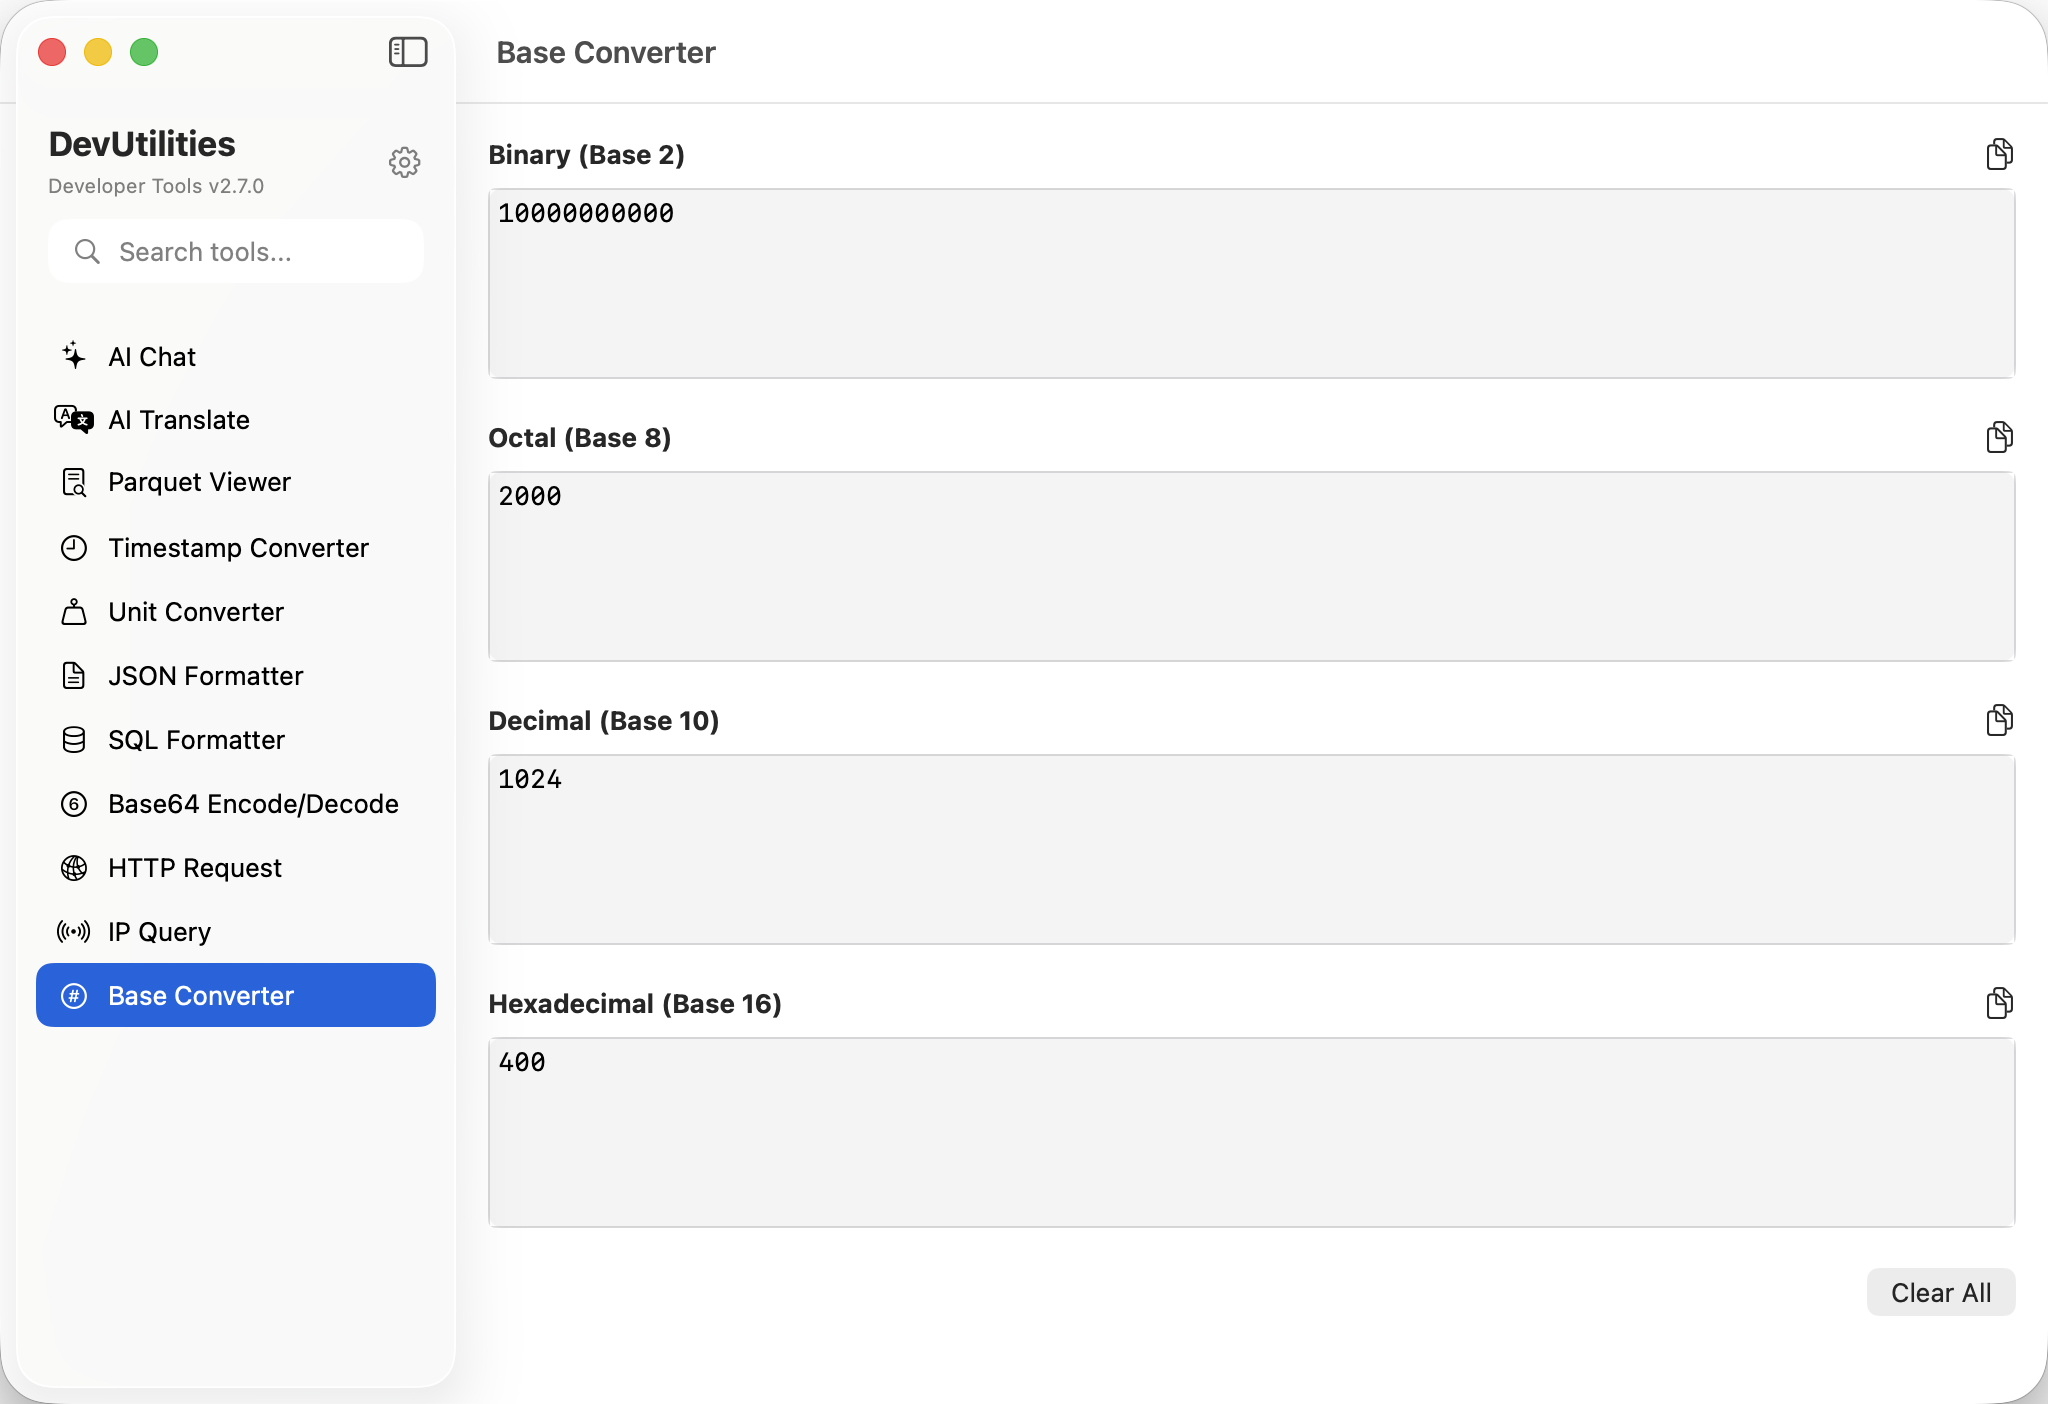
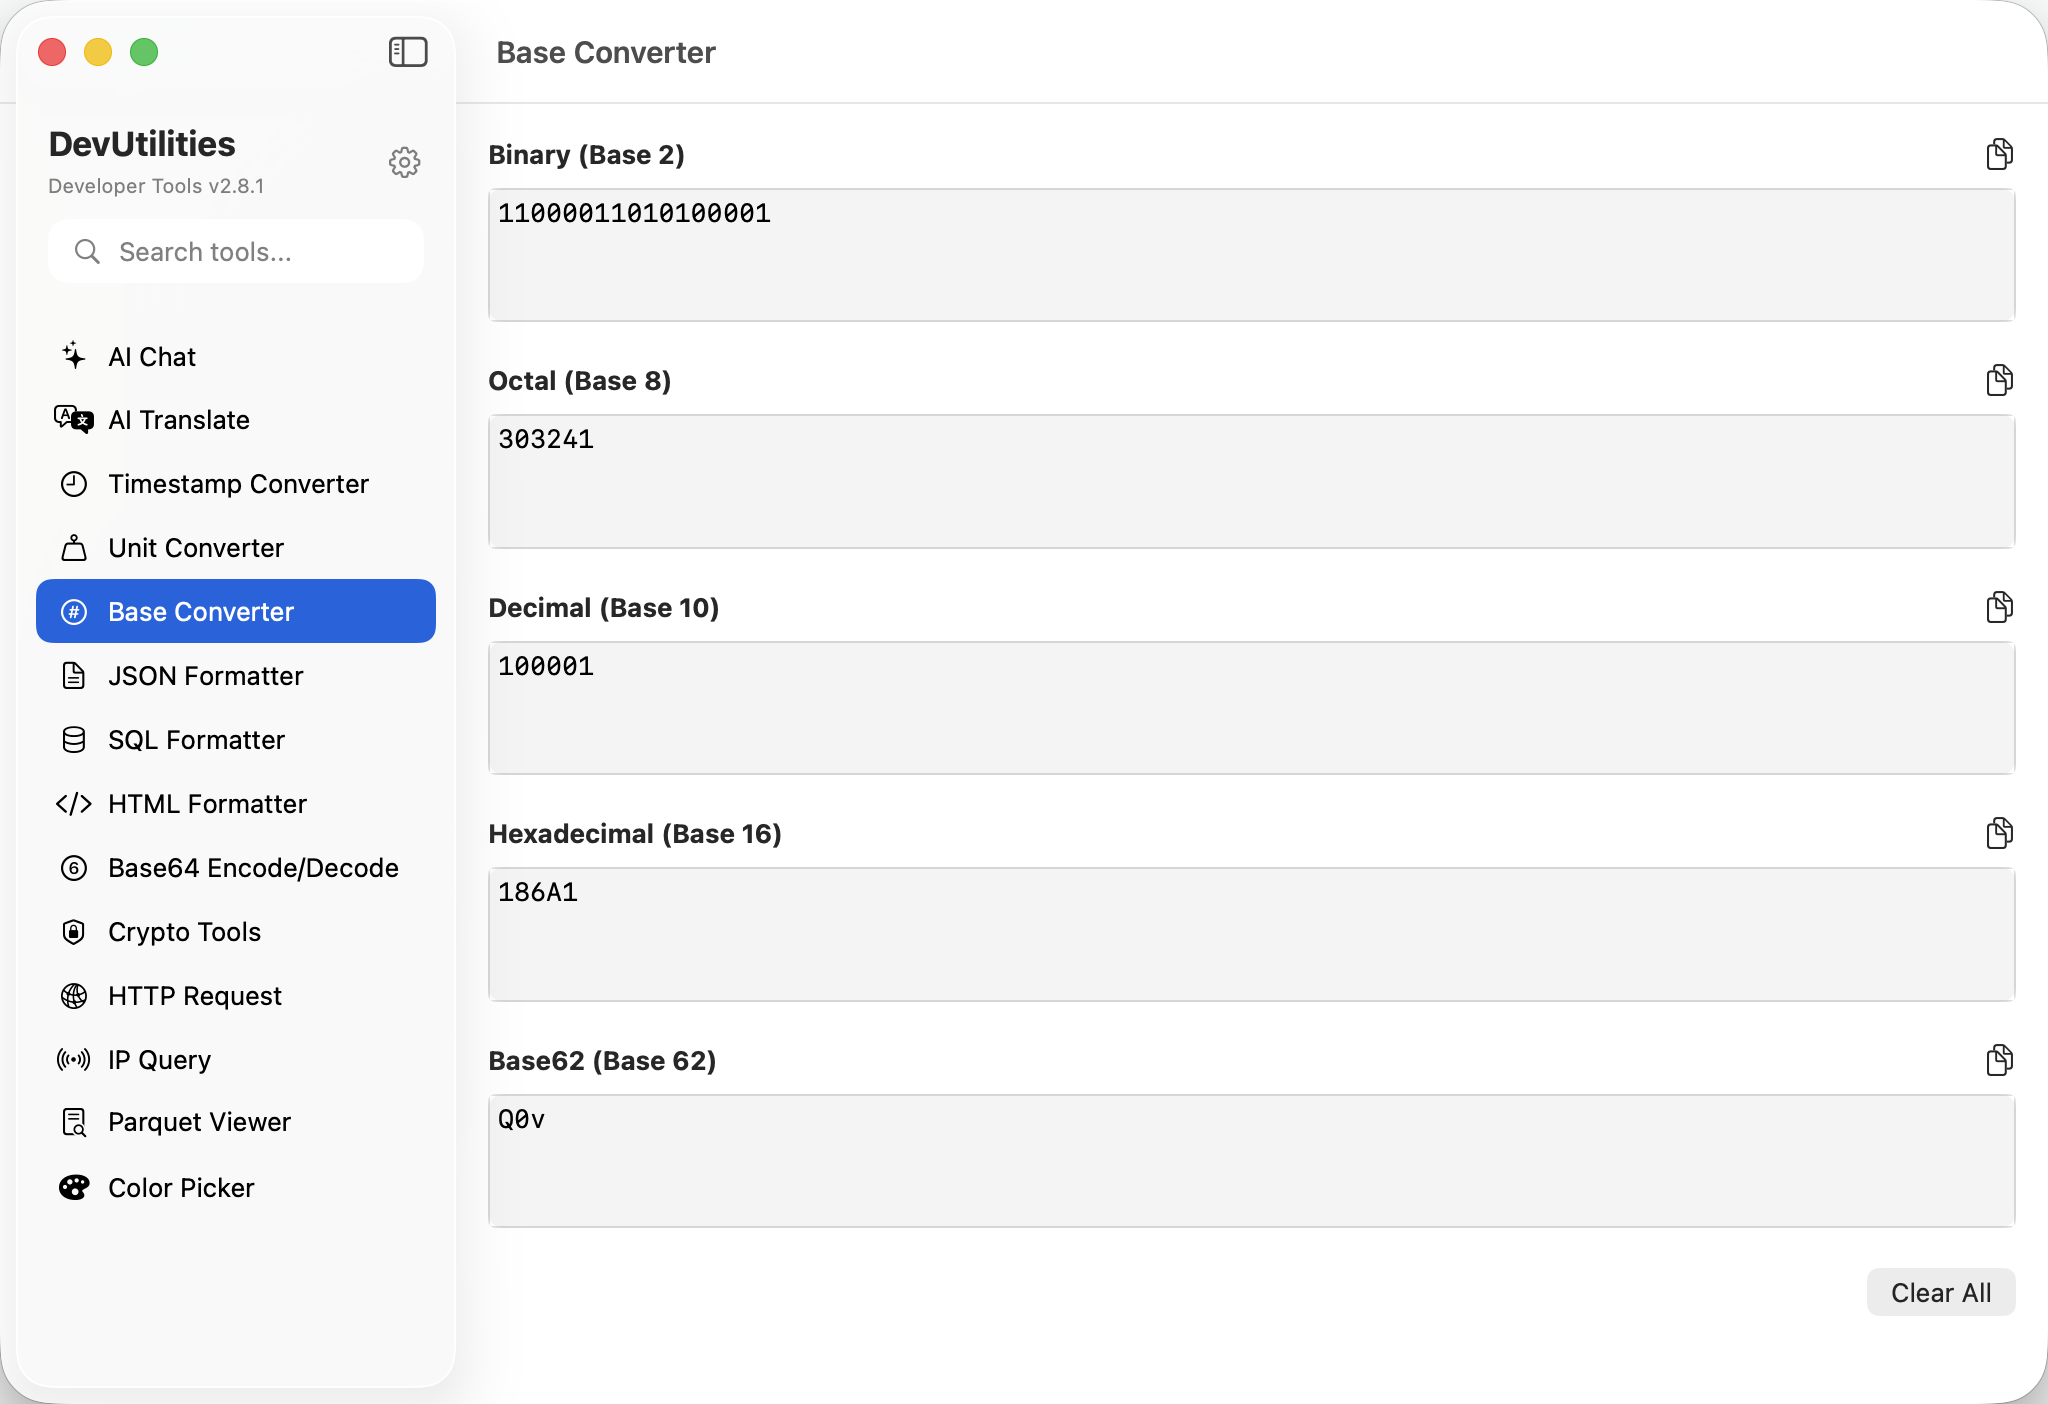
update base converter

diff --git a/release-notes.html b/release-notes.html
@@ -271,6 +271,46 @@
             </div>
 
             <div class="version-list">
+                <!-- Version 2.8.1 -->
+                <article class="version-card">
+                    <div class="version-header">
+                        <div class="version-info">
+                            <h2 class="version-number">v2.8.1</h2>
+                            <span class="version-date">October 2025</span>
+                        </div>
+                        <span class="version-badge patch">Enhancement</span>
+                    </div>
+
+                    <div class="version-content">
+                        <ul class="changes-list">
+                            <li class="change-item">
+                                <span class="change-icon">🔢</span>
+                                <div class="change-text">
+                                    <span class="change-highlight">Base62 Support</span> - Enhanced Base Converter with Base62 number system support (0-9, A-Z, a-z) for URL shortening and compact identifiers
+                                </div>
+                            </li>
+                            <li class="change-item">
+                                <span class="change-icon">⚡</span>
+                                <div class="change-text">
+                                    <span class="change-highlight">Five Base Systems</span> - Now supports conversion between binary, octal, decimal, hexadecimal, and Base62 with real-time validation
+                                </div>
+                            </li>
+                            <li class="change-item">
+                                <span class="change-icon">🔄</span>
+                                <div class="change-text">
+                                    <span class="change-highlight">Real-time Conversion</span> - All five number bases convert simultaneously as you type in any field
+                                </div>
+                            </li>
+                            <li class="change-item">
+                                <span class="change-icon">✅</span>
+                                <div class="change-text">
+                                    <span class="change-highlight">Custom Algorithms</span> - Implemented efficient custom toBase62 and fromBase62 conversion functions with character set validation
+                                </div>
+                            </li>
+                        </ul>
+                    </div>
+                </article>
+
                 <!-- Version 2.8.0 -->
                 <article class="version-card">
                     <div class="version-header">

diff --git a/index.html b/index.html
@@ -29,7 +29,7 @@
         "description": "DevUtilities is a native macOS application containing 20 essential developer tools including color picker, AI translate, AI chat, base converter, timestamp converter, JSON formatter, hex string converter, regex test, HTTP client, and more.",
         "applicationCategory": "DeveloperApplication",
         "operatingSystem": "macOS",
-        "softwareVersion": "2.8.0",
+        "softwareVersion": "2.8.1",
         "datePublished": "2025-01-01",
         "dateModified": "2025-10-01",
         "author": {
@@ -63,7 +63,7 @@
             "AI Chat with custom model support",
             "Timestamp Converter with timezone support",
             "Unit Converter for 7 categories",
-            "Base Converter for binary, octal, decimal, and hexadecimal",
+            "Base Converter for binary, octal, decimal, hexadecimal, and Base62",
             "Color Picker with 7 color format support and history",
             "JSON Formatter with visual diff editor",
             "SQL Formatter with syntax validation",
@@ -318,8 +318,8 @@
                         🔢
                     </div>
                     <h3 class="feature-title"><a href="base-converter.html">Base Converter</a></h3>
-                    <p class="feature-description">Mutual conversion between binary, octal, decimal, and hexadecimal number systems with real-time validation and clear error messages. Essential tool for low-level programming and debugging.</p>
-                    <span class="feature-badge">New in v2.7.0</span>
+                    <p class="feature-description">Mutual conversion between binary, octal, decimal, hexadecimal, and Base62 number systems with real-time validation and clear error messages. Essential tool for low-level programming and debugging.</p>
+                    <span class="feature-badge">Updated in v2.8.1</span>
                     <a href="base-converter.html" class="feature-link">Learn More →</a>
                 </div>
 

diff --git a/README.md b/README.md
@@ -14,7 +14,7 @@ A native macOS application for developers, containing 20 essential tools commonl
 - **AI Translate** - Professional translation tool with 3 modes (Translate, Polishing, Summarize), 19 language support, and special word mode with detailed explanations
 - **Timestamp Converter** - Convert between timestamps and human-readable dates with multiple format support
 - **Unit Converter** - Convert between different units (Data, Time, Length, Weight, Temperature, Area, Volume)
-- **Base Converter** - Mutual conversion between binary, octal, decimal, and hexadecimal number systems with real-time validation
+- **Base Converter** - Mutual conversion between binary, octal, decimal, hexadecimal, and Base62 number systems with real-time validation
 - **Color Picker** - **NEW** Professional color format converter with HEX, RGB, RGBA, HSL, HSLA, HSB, and CMYK support and color history
 - **JSON Formatter** - Format, validate, and compare JSON data with visual CodeMirror diff editor
 - **SQL Formatter** - Format and minify SQL queries with syntax validation
@@ -41,7 +41,14 @@ A native macOS application for developers, containing 20 essential tools commonl
 
 ## Version
 
-Current version: 2.8.0
+Current version: 2.8.1
+
+## What's New in v2.8.1
+
+- **Base62 Support**: Enhanced Base Converter with Base62 number system support (0-9, A-Z, a-z)
+- **Five Base Systems**: Now supports conversion between binary, octal, decimal, hexadecimal, and Base62
+- **Real-time Conversion**: All five number bases convert simultaneously as you type
+- **Comprehensive Validation**: Each base has specific character validation rules
 
 ## What's New in v2.8.0
 
